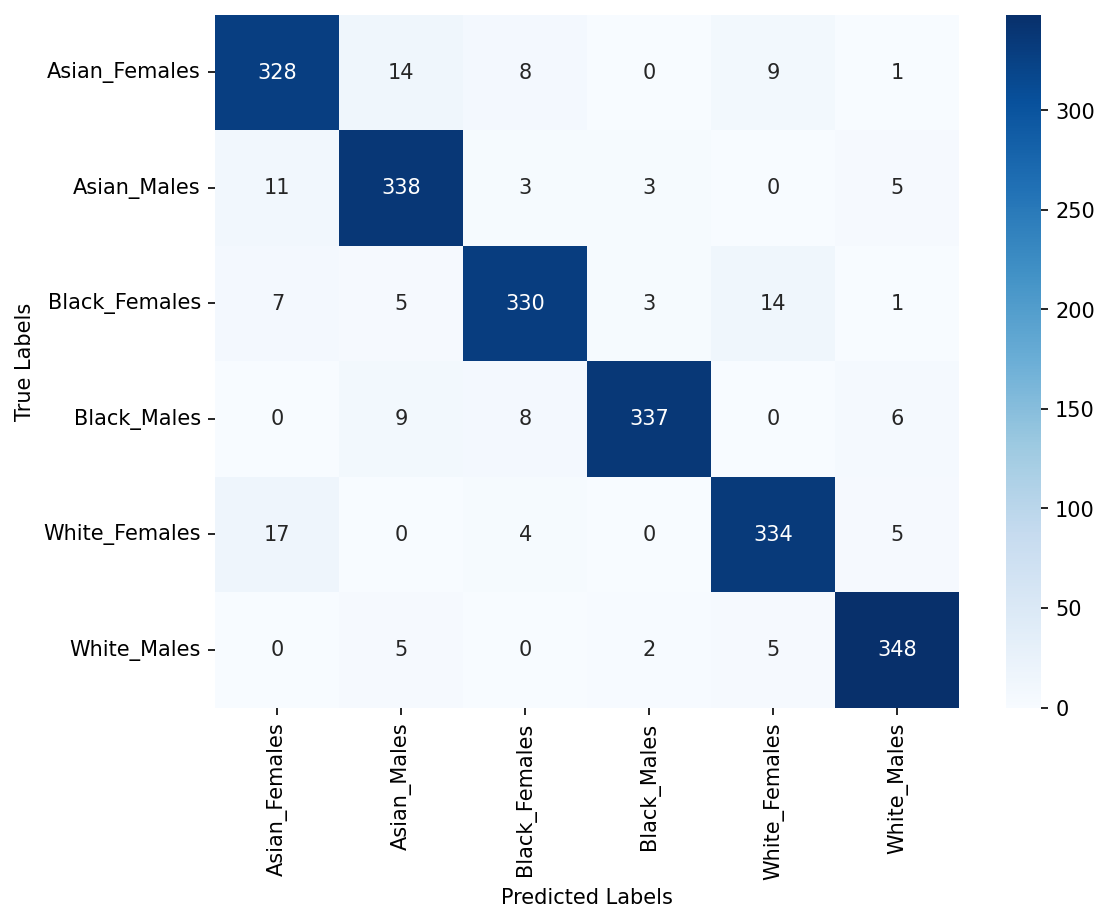
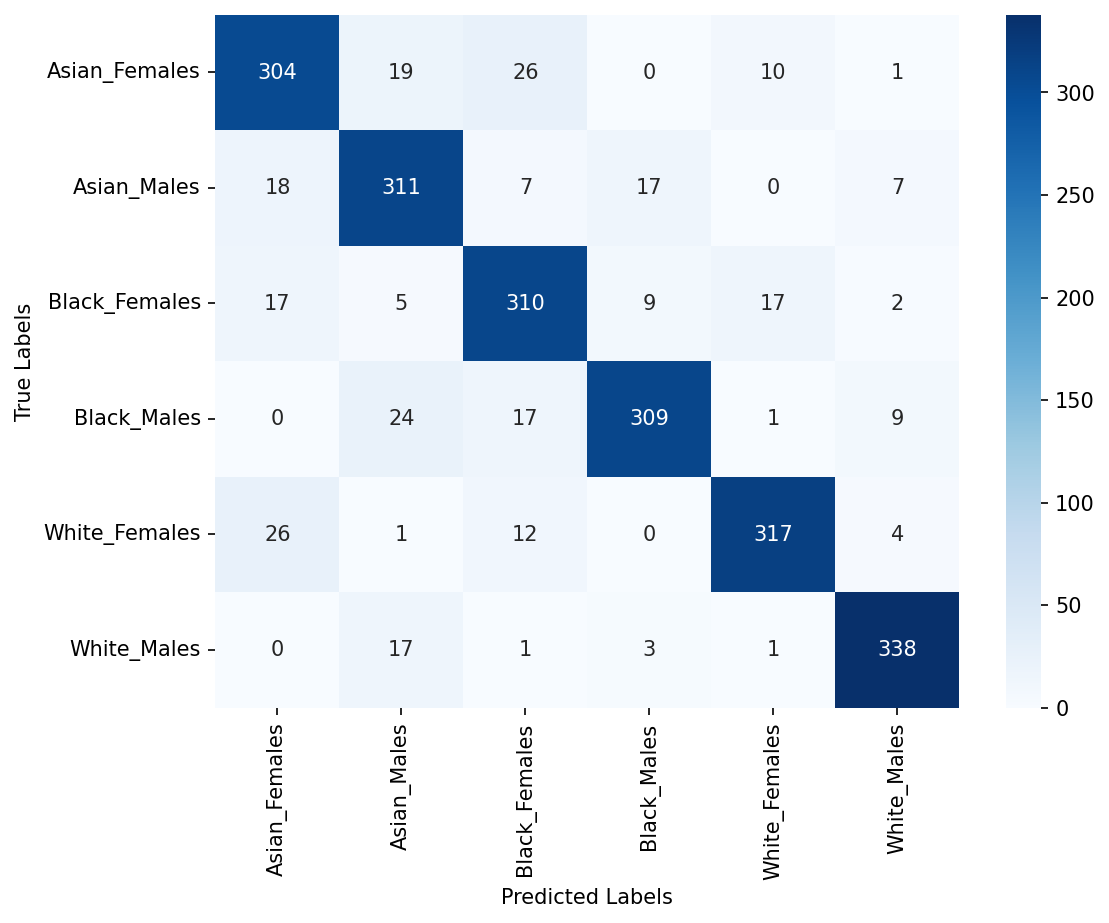
fix(results): add confusion matrix images to paper_v2 and paper_v1 images directory to resolve broken image links

diff --git a/paper_v1/04_results-and-discussion_d-error-pattern-assessment.md b/paper_v1/04_results-and-discussion_d-error-pattern-assessment.md
@@ -2,7 +2,7 @@
 
 <a id="fig4"></a>
 
-| <a id="fig4a"></a><img src="images/confusion_matrix_lr_single_v1.1.png" width="100%" alt="Confusion Matrix Single-Domain Face" /> | <a id="fig4b"></a><img src="images/confusion_matrix_lr_dual_v1.1.png" width="100%" alt="Confusion Matrix Dual-Domain Emotion+Face" /> | <a id="fig4c"></a><img src="images/confusion_matrix_lr_tri_v1.1.png" width="100%" alt="Confusion Matrix Tri-Domain" /> |
+| <img src="images/confusion_matrix_lr_single_v1.1.png" width="100%" alt="Confusion Matrix Single-Domain Face" /> | <img src="images/confusion_matrix_lr_dual_v1.1.png" width="100%" alt="Confusion Matrix Dual-Domain Emotion+Face" /> | <img src="images/confusion_matrix_lr_tri_v1.1.png" width="100%" alt="Confusion Matrix Tri-Domain" /> |
 | :---: | :---: | :---: |
 | *(a) Single-Domain Face Biometrics* | *(b) Dual-Domain Emotion ⊕ Face* | *(c) Tri-Domain Face ⊕ Emotion ⊕ Age* |
 

diff --git a/paper_v2/04_results-and-discussion_d-error-pattern-assessment.md b/paper_v2/04_results-and-discussion_d-error-pattern-assessment.md
@@ -2,7 +2,7 @@
 
 <a id="fig4"></a>
 
-| <a id="fig4a"></a><img src="images/confusion_matrix_lr_single_v1.1.png" width="100%" alt="Confusion Matrix Single-Domain Face" /> | <a id="fig4b"></a><img src="images/confusion_matrix_lr_dual_v1.1.png" width="100%" alt="Confusion Matrix Dual-Domain Emotion+Face" /> | <a id="fig4c"></a><img src="images/confusion_matrix_lr_tri_v1.1.png" width="100%" alt="Confusion Matrix Tri-Domain" /> |
+| <img src="images/confusion_matrix_lr_single_v1.1.png" width="100%" alt="Confusion Matrix Single-Domain Face" /> | <img src="images/confusion_matrix_lr_dual_v1.1.png" width="100%" alt="Confusion Matrix Dual-Domain Emotion+Face" /> | <img src="images/confusion_matrix_lr_tri_v1.1.png" width="100%" alt="Confusion Matrix Tri-Domain" /> |
 | :---: | :---: | :---: |
 | *(a) Single-Domain Face Biometrics* | *(b) Dual-Domain Emotion ⊕ Face* | *(c) Tri-Domain Face ⊕ Emotion ⊕ Age* |
 
